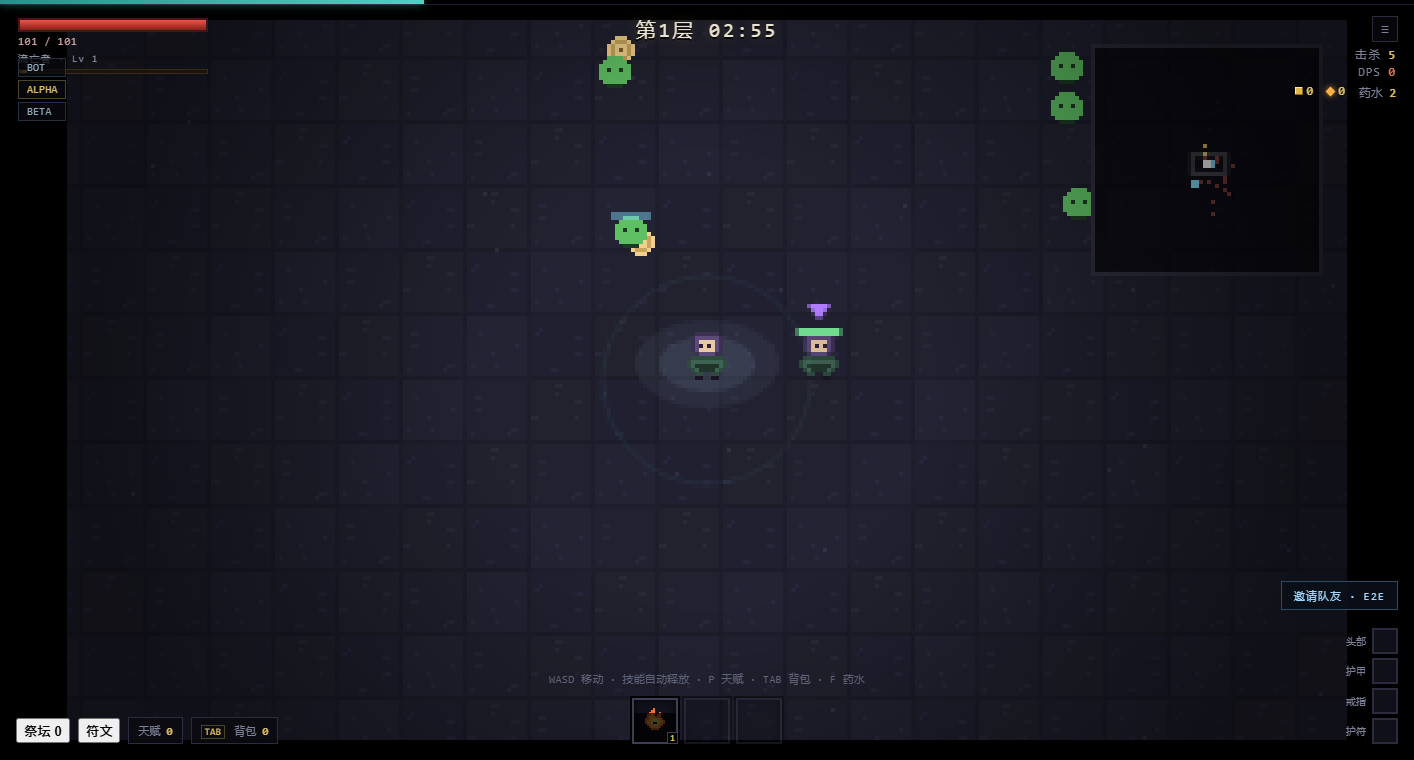
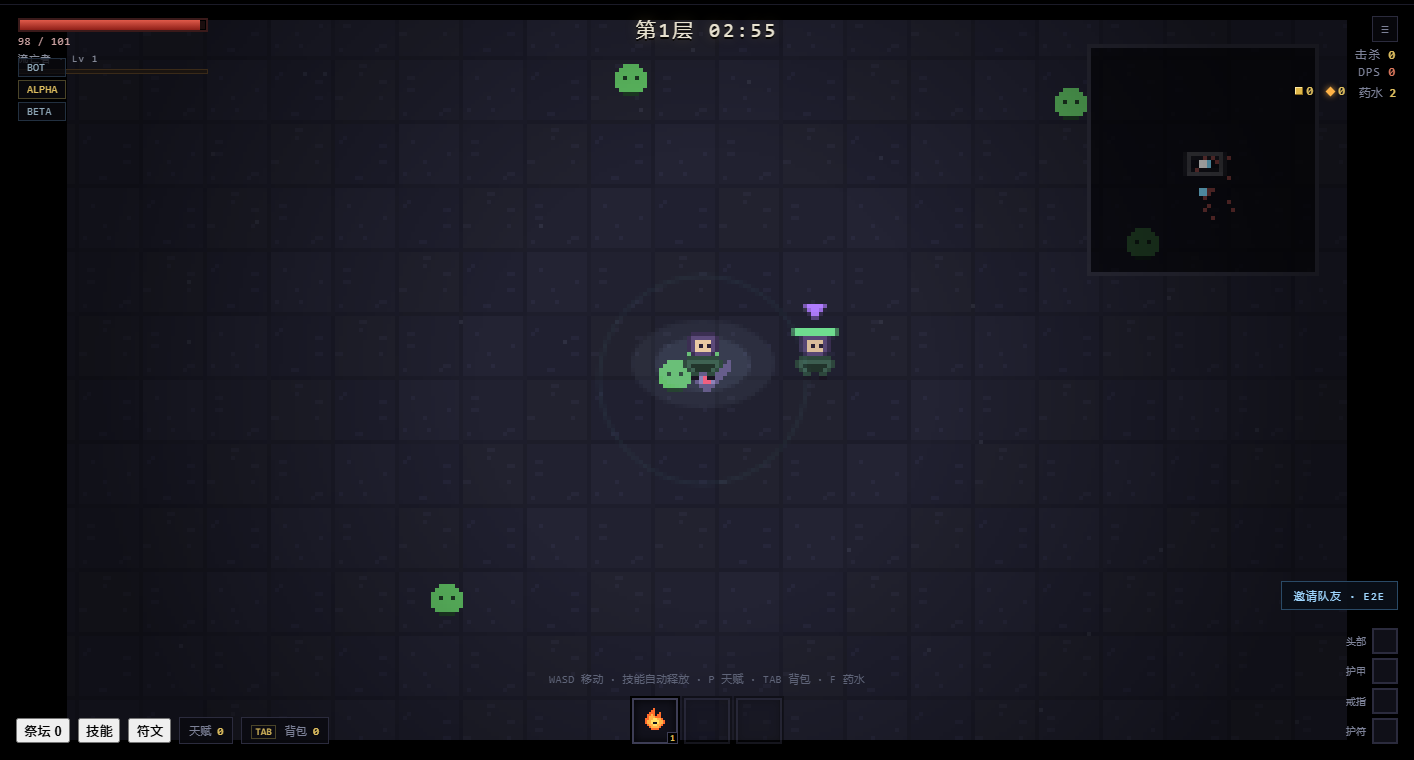
feat: 技能手动释放 + 辅助插槽（触媒自动）+ 技能面板 + 掉落名字 + 批量拾取
默认 1/2/3 手动施放，插触媒才自动
6 种辅助，每技能最多 3 个，通过 computeSkill 的修正管线生效
技能面板与天赋面板分离
地面掉落显示名字（随快照同步），E 批量拾取同部位
测试: 27/27 多人断言

diff --git a/js/sim.js b/js/sim.js
@@ -38,7 +38,7 @@
       face: 1, invuln: 2, hurtFlash: 0, walkT: 0, moving: false,
       skills: [], talents: {}, treeSpent: { blade: 0, ember: 0, storm: 0 }, talentPoints: 0,
       gold: 0, potions: 2, potionCd: 0, frenzy: 0, frenzyT: 0, boxes: 0, mats: 0,
-      downed: false, downT: 0, reviveProg: 0,
+      downed: false, downT: 0, reviveProg: 0, supports: {},
       gear: { helm: null, body: null, ring: null, amulet: null },
       bag: [],
       alive: true
@@ -158,6 +158,25 @@
     return { mods: out, active: active, counts: counts };
   }
 
+  function supportModsOf(p, skillId) {
+    if (!p.supports || !p.supports[skillId]) return null;
+    const ids = p.supports[skillId];
+    const out = [];
+    for (let i = 0; i < ids.length; i++) {
+      for (let j = 0; j < D.SUPPORTS.length; j++) {
+        if (D.SUPPORTS[j].id === ids[i] && D.SUPPORTS[j].mods) {
+          for (let mi = 0; mi < D.SUPPORTS[j].mods.length; mi++) out.push(D.SUPPORTS[j].mods[mi]);
+        }
+      }
+    }
+    return out;
+  }
+
+  function autoCast(p, skillId) {
+    if (!p.supports || !p.supports[skillId]) return false;
+    return p.supports[skillId].indexOf('trigger') >= 0;
+  }
+
   function runeModsOf(p, skillId) {
     if (!p.runeOf) return null;
     const runeId = p.runeOf[skillId];
@@ -166,6 +185,41 @@
     if (!sk || !sk.runes) return null;
     for (let i = 0; i < sk.runes.length; i++) if (sk.runes[i].id === runeId) return sk.runes[i].mods;
     return null;
+  }
+
+  /** 手动施放（不依赖触媒） */
+  function castSkill(st, slot, p) {
+    if (!p) p = localPlayer(st);
+    const s = p.skills[slot];
+    if (!s) return { ok: false, msg: '该栏没有技能' };
+    if (s.cd > 0) return { ok: false, msg: '冷却中' };
+    const calc = p.skillCalc[s.id];
+    if (!calc) return { ok: false };
+    const ok = fireSkill(st, p, slot);
+    s.cd = (ok ? 1 / calc.rate : 0.12) * (p.frenzyT > 0 ? 0.65 : 1);
+    st._caster = null;
+    return { ok: ok };
+  }
+
+  /** 增删辅助（每技能最多 3 个） */
+  function setSupport(st, skillId, supportId, p) {
+    if (!p) p = localPlayer(st);
+    p.supports = p.supports || {};
+    let cur = (p.supports[skillId] || []).slice();
+    if (!supportId) {
+      p.supports[skillId] = [];
+      recompute(st, p);
+      return { ok: true, list: [] };
+    }
+    const at = cur.indexOf(supportId);
+    if (at >= 0) cur.splice(at, 1);
+    else {
+      if (cur.length >= 3) return { ok: false, msg: '每个技能最多插 3 个辅助' };
+      cur.push(supportId);
+    }
+    p.supports[skillId] = cur;
+    recompute(st, p);
+    return { ok: true, list: cur };
   }
 
   function setRune(st, skillId, runeId, p) {
@@ -207,7 +261,8 @@
     p.skillCalc = {};
     for (let i = 0; i < p.skills.length; i++) {
       const s = p.skills[i];
-      p.skillCalc[s.id] = E.computeSkill(s.id, skillLevel(p, s), agg, runeModsOf(p, s.id));
+      const modsAll = (runeModsOf(p, s.id) || []).concat(supportModsOf(p, s.id) || []);
+        p.skillCalc[s.id] = E.computeSkill(s.id, skillLevel(p, s), agg, modsAll.length ? modsAll : null);
     }
     if (p === localPlayer(st)) {
       st.agg = agg;
@@ -727,6 +782,7 @@
       for (let j = 0; j < p.skills.length; j++) {
         const s = p.skills[j];
         s.cd -= dt;
+        if (!autoCast(p, s.id)) continue;
         if (s.cd <= 0) {
           const calc = p.skillCalc[s.id];
           if (calc) {
@@ -1043,14 +1099,25 @@
   /** E 拾取最近的装备 */
   function takeItem(st, p) {
     if (!p) p = localPlayer(st);
-    const pk = nearestGroundItem(st, p.x, p.y, 34);
-    if (!pk) return { ok: false, msg: '附近没有可拾取的装备' };
-    if (p.bag.length >= BAG_CAP) return { ok: false, msg: '背包已满' };
-    pk.dead = true;
-    p.bag.push(pk.item);
-    ev(st, 'item', { r: pk.item.rarity });
-    toast(st, '拾取 ' + pk.item.name, pk.item.rarity >= 2 ? 'rare' : '');
-    return { ok: true, item: pk.item };
+    const first = nearestGroundItem(st, p.x, p.y, 34);
+    if (!first) return { ok: false, msg: '附近没有可拾取的装备' };
+    const slot = first.item.slot;
+    const r2 = 46 * 46;
+    let n = 0, best = 0;
+    for (let i = st.pickups.length - 1; i >= 0; i--) {
+      const pk = st.pickups[i];
+      if (pk.dead || pk.kind !== 'item' || !pk.item || pk.item.slot !== slot) continue;
+      if (dist2(pk.x, pk.y, p.x, p.y) > r2) continue;
+      if (p.bag.length >= BAG_CAP) break;
+      pk.dead = true;
+      p.bag.push(pk.item);
+      n++;
+      if (pk.item.rarity > best) best = pk.item.rarity;
+    }
+    if (!n) return { ok: false, msg: '背包已满' };
+    ev(st, 'item', { r: best });
+    toast(st, '拾取 ' + n + ' 件' + (D.SLOT_CN[slot] || '装备'), best >= 2 ? 'rare' : '');
+    return { ok: true, count: n };
   }
 
   /** 开魔盒 */
@@ -1368,7 +1435,8 @@
     let dps = 0;
     for (let i = 0; i < p.skills.length; i++) {
       const s = p.skills[i];
-      const c = E.computeSkill(s.id, skillLevel(p, s), agg, runeModsOf(p, s.id));
+      const modsAll2 = (runeModsOf(p, s.id) || []).concat(supportModsOf(p, s.id) || []);
+        const c = E.computeSkill(s.id, skillLevel(p, s), agg, modsAll2.length ? modsAll2 : null);
       if (c) dps += c.dps;
     }
     const hp = Math.max(1, Math.round((CFG.baseHp + CFG.hpPerLevel * (p.level - 1) + agg.life) * (1 + agg.lifePct)));
@@ -1513,7 +1581,7 @@
     localPlayer: localPlayer, setLocal: setLocal, alivePlayers: alivePlayers,
     addPlayer: addPlayer, removePlayer: removePlayer, applyPlayerDetails: applyPlayerDetails,
     classOf: classOf, setClass: setClass, enhance: enhance, salvage: salvage, dropItem: dropItem,
-    setRune: setRune, runeModsOf: runeModsOf,
+    setRune: setRune, runeModsOf: runeModsOf, castSkill: castSkill, setSupport: setSupport, autoCast: autoCast,
     addSkill: addSkill,
     allocate: allocate, resetTalents: resetTalents, drinkPotion: drinkPotion,
     equip: equip, unequip: unequip, sellItem: sellItem, buyItem: buyItem, buyPotion: buyPotion,

diff --git a/js/ui.js b/js/ui.js
@@ -1066,6 +1066,50 @@
     };
   };
 
+  /* ---------------- 技能面板（辅助插槽） ---------------- */
+  UI.showSkills = function (st) {
+    const p = st.player;
+    function render() {
+      let html = '<div class="mtitle">技能</div>';
+      html += '<div class="msub">按 <b>1 / 2 / 3</b> 手动施放；插「触媒·自动」后自动释放。每技能最多 3 个辅助。</div>';
+      for (let si = 0; si < 3; si++) {
+        const s = p.skills[si];
+        if (!s) {
+          html += '<div class="sect">技能栏 ' + (si + 1) + '</div><div class="empty">空</div>';
+          continue;
+        }
+        const def = D.SKILLS[s.id];
+        const sup = (p.supports && p.supports[s.id]) || [];
+        const auto = root.SIM.autoCast(p, s.id);
+        html += '<div class="sect">技能栏 ' + (si + 1) + ' · ' + def.name + ' Lv' + s.rank +
+          '<span style="color:' + (auto ? '#6fdc8f' : '#6f7a90') + ';font-size:10px"> · ' + (auto ? '自动释放' : '手动释放') + '</span></div>';
+        html += '<div class="opts">';
+        for (let k = 0; k < D.SUPPORTS.length; k++) {
+          const sp = D.SUPPORTS[k];
+          const on = sup.indexOf(sp.id) >= 0;
+          html += '<button class="opt' + (on ? ' on' : '') + '" data-sup="' + s.id + '|' + sp.id + '" title="' + sp.desc + '">' + sp.name + '</button>';
+        }
+        html += '</div>';
+      }
+      html += '<div class="note">' + D.SUPPORTS.map(function (x) { return '<b>' + x.name + '</b> ' + x.desc; }).join('<br>') + '</div>';
+      html += '<div class="mfoot"><button class="btn primary" data-close="1">关闭</button></div>';
+      openModal(html, 'wide');
+      $('modalbox').onclick = function (ev) {
+        let el = ev.target;
+        const box = $('modalbox');
+        while (el && el !== box && !el.getAttribute('data-sup') && !el.getAttribute('data-close')) el = el.parentNode;
+        if (!el || el === box) return;
+        if (el.getAttribute('data-close')) { UI.close(); return; }
+        const parts = el.getAttribute('data-sup').split('|');
+        const r = ACT.run(st, 'support', [parts[0], parts[1]]);
+        if (r && r.ok) UI.playSfx('ui');
+        else if (r) UI.toast(r.msg, 'bad');
+        render();
+      };
+    }
+    render();
+  };
+
   /* ---------------- 技能符文 ---------------- */
   UI.showRunes = function (st) {
     const p = st.player;

diff --git a/js/main.js b/js/main.js
@@ -37,6 +37,7 @@
   }
 
   function botStep(state, tt) {
+    for (let bi = 0; bi < state.players[0].skills.length; bi++) SIM.castSkill(state, bi, state.players[0]);
     if (state.phase === 'combat' && state.players[0] && state.players[0].bag.length < 20) {
       const gi = SIM.nearestGroundItem(state, state.players[0].x, state.players[0].y, 34);
       if (gi) SIM.takeItem(state, state.players[0]);
@@ -144,6 +145,7 @@
       else if (panel === 'settings') UI.showSettings();
       else if (panel === 'altar') UI.showAltar();
       else if (panel === 'rune') UI.showRunes(st);
+      else if (panel === 'skills') UI.showSkills(st);
     }
     let sawTut = params.get('notut') === '1';
     try { sawTut = sawTut || localStorage.getItem('ashfall.tutorial') === '1'; } catch (e) {}
@@ -183,6 +185,12 @@
       keys[k] = true;
       if (UI.isOpen()) return;
       if (k === 'm') { RENDER.toggleMinimap(); return; }
+      if (k === '1' || k === '2' || k === '3') {
+        const slot = parseInt(k, 10) - 1;
+        const r = ACT.run(st, 'cast', [slot]);
+        if (r && !r.ok && r.msg) UI.toast(r.msg, 'bad');
+        return;
+      }
       if (k === 'e') {
         if (st.phase === 'combat') {
           const g = SIM.nearestGroundItem(st, st.player.x, st.player.y, 34);
@@ -227,6 +235,8 @@
     if (altarBtn) altarBtn.onclick = function () { UI.showAltar(); };
     const runeBtn = document.getElementById('runebtn');
     if (runeBtn) runeBtn.onclick = function () { UI.showRunes(st); };
+    const skillBtn = document.getElementById('skillbtn');
+    if (skillBtn) skillBtn.onclick = function () { UI.showSkills(st); };
 
     if (ROOM && location.protocol !== 'file:') startNet();
 

diff --git a/js/data.js b/js/data.js
@@ -399,6 +399,16 @@
   };
 
   /* ---------------- 可选职业 ---------------- */
+  /* ---------------- 辅助技能（插槽在技能面板里） ---------------- */
+  const SUPPORTS = [
+    { id: 'trigger', name: '触媒·自动', trigger: true, desc: '该技能自动释放（不插则需按键 1/2/3）' },
+    { id: 'empower', name: '强化', mods: [{ k: 'dmg', v: 0.25 }, { k: 'rate', v: -0.10 }], desc: '伤害 +25%，攻速 -10%' },
+    { id: 'haste', name: '急速', mods: [{ k: 'rate', v: 0.25 }, { k: 'dmg', v: -0.10 }], desc: '攻速 +25%，伤害 -10%' },
+    { id: 'wide', name: '扩域', mods: [{ k: 'radius', v: 0.30 }, { k: 'dmg', v: -0.08 }], desc: '范围 +30%，伤害 -8%' },
+    { id: 'multi', name: '多重', mods: [{ k: 'proj', v: 1 }, { k: 'dmg', v: -0.20 }], desc: '投射物 +1，伤害 -20%' },
+    { id: 'pierce', name: '穿透', mods: [{ k: 'pierce', v: 2 }, { k: 'dmg', v: -0.12 }], desc: '穿透 +2，伤害 -12%' }
+  ];
+
   const CLASSES = [
     { id: 'blade', name: '刃行者', color: '#e05c4a', skill: 'dagger', talent: 'b1',
       desc: '近战物理，暴击高，血厚一点',
@@ -434,7 +444,7 @@
     ELE, TYPE_CN, SKILLS, SKILL_IDS, MAX_SKILL_LEVEL,
     AFFIXES, SLOTS, SLOT_CN, SLOT_ICON, RARITY_CN, RARITY_COLOR, BASE_NAMES, LEGENDARIES,
     TREES: TREES, TALENT_INDEX: TALENT_INDEX, TIER_GATE: TIER_GATE,
-    RIFTS: RIFTS, RESONANCE: RESONANCE, CLASSES: CLASSES,
+    RIFTS: RIFTS, RESONANCE: RESONANCE, CLASSES: CLASSES, SUPPORTS: SUPPORTS,
     ENEMIES, ELITE_MODS, WAVES, TOWN, PRICES, CONFIG
   };
 })(window);

diff --git a/test/mp.js b/test/mp.js
@@ -158,5 +158,19 @@ T('已解锁符文不再扣材料', !!(rnB && rnB.ok && rnB.cost === 0 && prn.ma
 const rnC = SIM.setRune(stRune, 'dagger', null, prn);
 T('可以卸下符文回到基础值', !!(rnC && rnC.ok && Math.abs(prn.skillCalc.dagger.dps - baseDps) < 1e-6), 'dps=' + Math.round(prn.skillCalc.dagger.dps));
 
+// 辅助与自动释放
+const stSup = SIM.create(101, 1);
+SIM.chooseRift(stSup, 0);
+SIM.setClass(stSup, 0, 0);
+const psup = stSup.players[0];
+T('默认不自动释放', SIM.autoCast(psup, 'dagger') === false, 'auto=' + SIM.autoCast(psup, 'dagger'));
+SIM.setSupport(stSup, 'dagger', 'trigger', psup);
+T('插入触媒后自动释放', SIM.autoCast(psup, 'dagger') === true);
+SIM.setSupport(stSup, 'dagger', 'trigger', psup);
+T('再次点击移除触媒', SIM.autoCast(psup, 'dagger') === false);
+SIM.setSupport(stSup, 'dagger', 'empower', psup);
+const dpsSup1 = psup.skillCalc.dagger.dps;
+SIM.setSupport(stSup, 'dagger', 'empower', psup);
+T('辅助影响技能数值', psup.skillCalc.dagger.dps < dpsSup1, 'dps=' + Math.round(psup.skillCalc.dagger.dps) + ' vs ' + Math.round(dpsSup1));
 console.log('\n' + pass + '/' + (pass + fail) + ' passed');
 process.exit(fail === 0 ? 0 : 1);

diff --git a/js/hostcore.js b/js/hostcore.js
@@ -29,7 +29,7 @@
     const gs = [];
     for (let i = 0; i < st.pickups.length; i++) {
       const g = st.pickups[i];
-      gs.push([r1(g.x), r1(g.y), g.kind, g.item ? g.item.rarity : 0]);
+      gs.push([r1(g.x), r1(g.y), g.kind, g.item ? g.item.rarity : 0, g.item ? g.item.name : '']);
     }
     return {
       t: st.phase, pt: r1(st.phaseT), cy: st.cycle, near: st.nearNpc || 0, k: st.kills,
@@ -116,7 +116,7 @@
     const picks = [];
     for (let i = 0; i < snap.gs.length; i++) {
       const a = snap.gs[i];
-      picks.push({ x: a[0], y: a[1], kind: a[2], t: 0, item: { rarity: a[3] || 0 } });
+      picks.push({ x: a[0], y: a[1], kind: a[2], t: 0, item: { rarity: a[3] || 0, name: a[4] || '' } });
     }
     view.pickups = picks;
 

diff --git a/js/render.js b/js/render.js
@@ -263,6 +263,14 @@
         }
         ctx.globalAlpha = left < 8 ? (Math.floor(time * 6) % 2 === 0 ? 0.3 : 1) : 1;
         blitWorld('chest', pk.x, pk.y + bob, false, false);
+        if (pk.item && pk.item.name && left > 1.5) {
+          ctx.font = '4px system-ui, sans-serif';
+          ctx.textAlign = 'center';
+          ctx.fillStyle = col;
+          ctx.globalAlpha = 0.92;
+          ctx.fillText(pk.item.name, sx(pk.x), sy(pk.y) - bh - 3);
+          ctx.globalAlpha = 1;
+        }
       } else if (pk.kind === 'mat') {
         ctx.globalAlpha = 0.85;
         ctx.fillStyle = '#ffb347';

diff --git a/js/act.js b/js/act.js
@@ -37,6 +37,8 @@
       case 'salvage': return SIM.salvage(st, a[0], p);
       case 'drop': return SIM.dropItem(st, a[0], p);
       case 'rune': return SIM.setRune(st, a[0], a[1], p);
+      case 'cast': return SIM.castSkill(st, a[0], p);
+      case 'support': return SIM.setSupport(st, a[0], a[1], p);
       case 'potion': return SIM.drinkPotion(st, p);
       case 'leave': return SIM.interact(st);
       case 'take': return SIM.takeItem(st, p);

diff --git a/test/balance.js b/test/balance.js
@@ -103,6 +103,7 @@ function run(seed, seconds, verbose) {
       const g = SIM.nearestGroundItem(st, st.players[0].x, st.players[0].y, 34);
       if (g) SIM.takeItem(st, st.players[0]);
     }
+    for (let ci = 0; ci < st.players[0].skills.length; ci++) SIM.castSkill(st, ci, st.players[0]);
     SIM.step(st, STEP, botStep(st, i / 60));
     if (st.player.talentPoints > 0) autoTalent(st);
     // 主城自动：买装备 + 卖垃圾 + 补药水

diff --git a/index.html b/index.html
@@ -42,6 +42,7 @@
 
   <div id="bottomleft">
     <button id="altar-btn">祭坛 <b id="essnum">0</b></button>
+    <button id="skillbtn">技能</button>
     <button id="runebtn">符文</button>
     <button id="tpbtn">天赋 <b id="tpnum">0</b></button>
     <div id="bagbtn"><span class="key">TAB</span> 背包 <b id="bagcount">0</b></div>

diff --git a/CHANGELOG.md b/CHANGELOG.md
@@ -2,6 +2,15 @@
 
 本项目从零开始，逐轮迭代。下面按实际完成的顺序记录，方便回溯每个版本改变了什么。
 
+## 1.15.0 — 技能与天赋分离
+
+- **取消技能自动释放**：默认按 `1 / 2 / 3` 手动施放
+- **辅助插槽**：每个技能最多插 3 个辅助，共 6 种——触媒·自动 / 强化 / 急速 / 扩域 / 多重 / 穿透
+- 只有插入「触媒·自动」才会自动释放，这就是自动化的代价（占一个辅助位）
+- **技能面板**独立于天赋面板（HUD 新增「技能」按钮），天赋树只管加点和解锁
+- **地面掉落显示名字**（金币除外），联机时名字随快照下发
+- **按 E 批量拾取**：捡起附近同部位的所有装备
+
 ## 1.14.0 — 技能符文
 
 - 8 个技能各 2 个符文，共 **16 个**，只改数值不改机制（范围/伤害/攻速/穿透/连锁）
